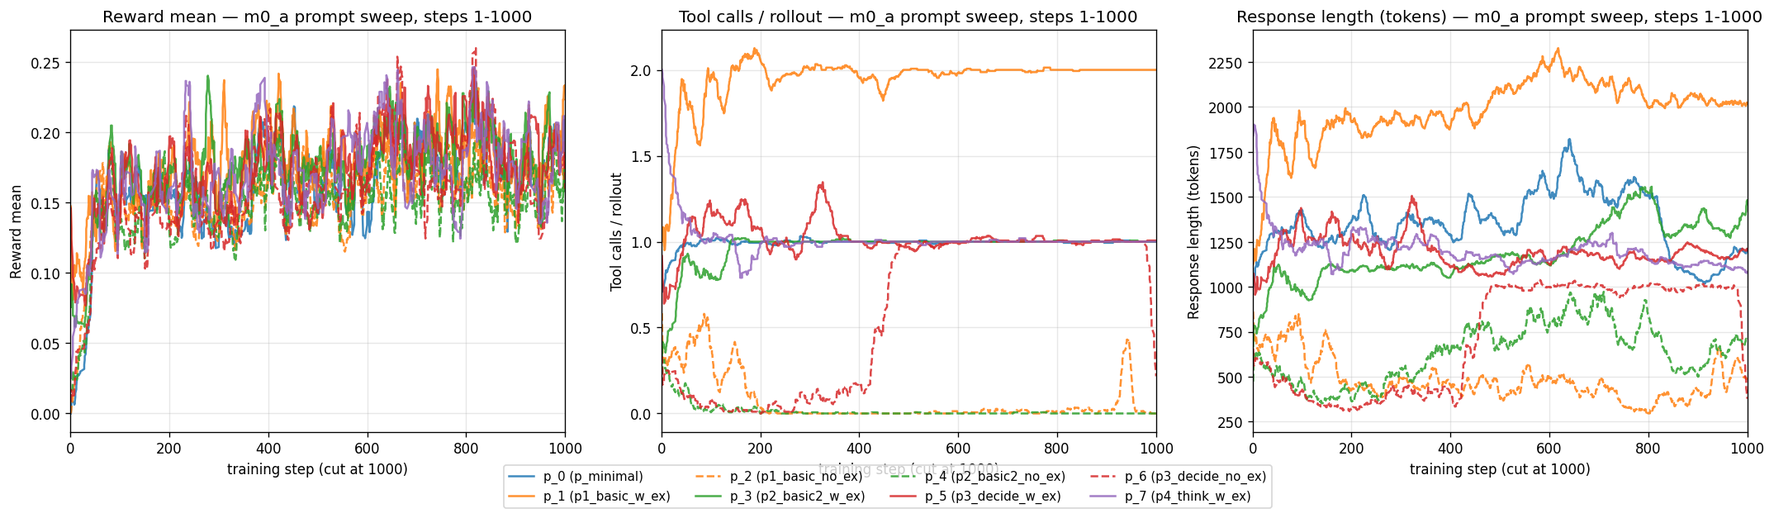
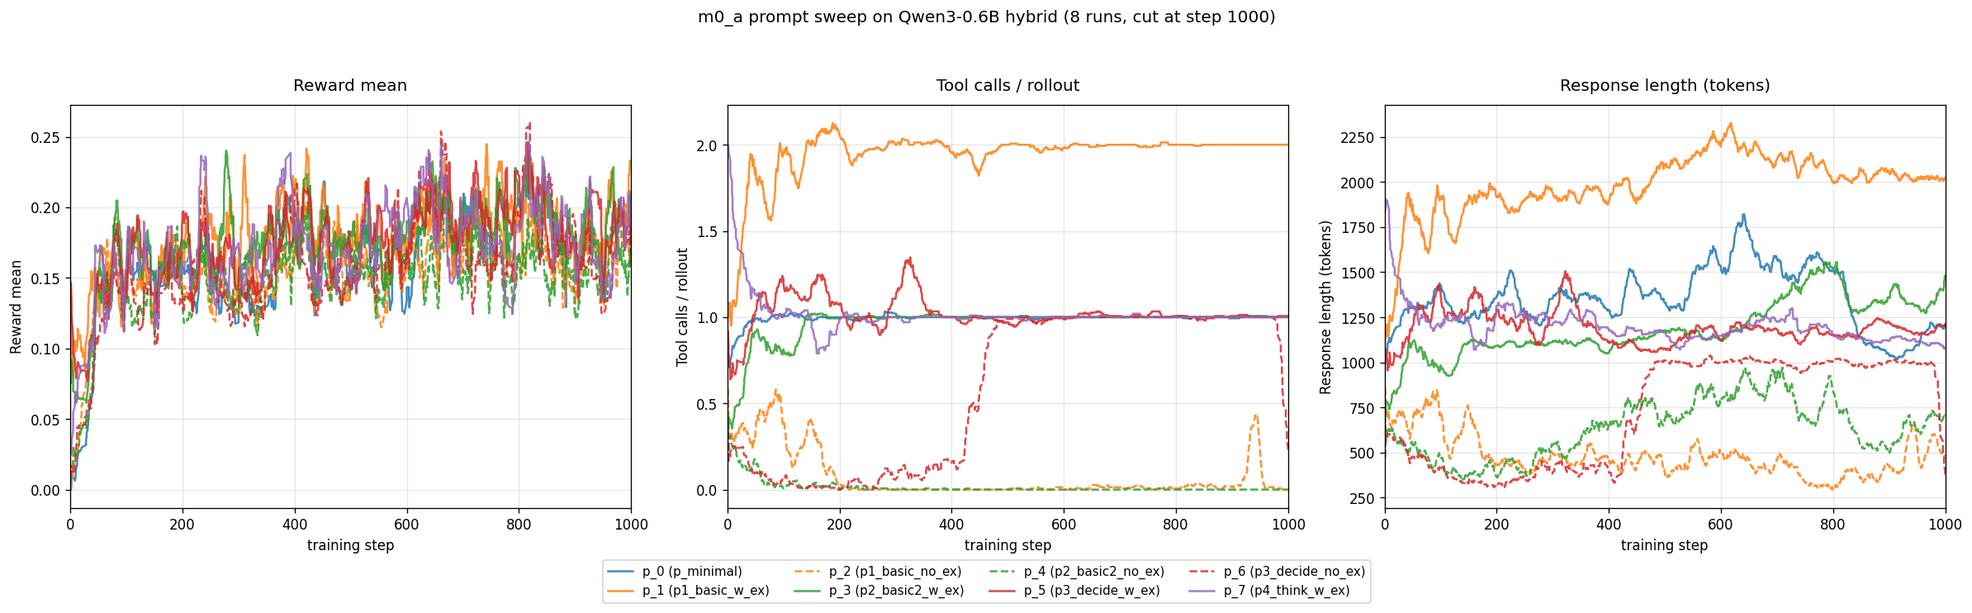
docs(m6): finish STORYLINE TODOs + drop user-voice + add 3 new graphs
User left 8 TODO markers in STORYLINE.md during review; all addressed.
Converted "the user said / asked / flagged" phrasings to project-voice
("we found / observed") since the project narrative is collective work.

TODOs addressed:
 1. line 125 (Search-R1 + ReSearch ablation context): §2.5 now opens with
    Search-R1 (NQ+HotpotQA training, EM-only reward, loss-masking is the
    one published ablation, ~25% gain) and ReSearch (MuSiQue-only training,
    F1+0.1 floor reward, no published reward-shape ablation).
 2. line 129 (Tier-2 papers + links + briefs): IGPO + TIPS + IG-Search +
    Search-P1 now each get a one-line description with arxiv links and a
    one-line contribution summary.
 3. line 138 (graph for F1+0.1 floor mechanism): NEW
    storyline_assets/floor_mechanism.png. Two panels: reward shape (F1 vs
    F1+0.1) and group-advantage distribution under each reward. Simulation
    of G=5 groups with empirical F1 distribution confirms 68.3% of groups
    collapse to std=0 under the floor vs 59.5% under F1-only (9 pp gap in
    gradient-throughput).
 4. line 152 (R1-Searcher + DGPO cites): added arXiv links + paper-note
    paths; flagged DGPO as not-yet-ingested into docs/papers/ (open
    follow-up before paper draft).
 5. line 177 (m0_a plot heading overlap): regenerated
    storyline_assets/m0_a_step1000_comparison.png at 20x5.5 with suptitle
    + shorter panel titles + padded layout. Same for the m0_b tag
    comparison plot.
[…]

diff --git a/docs/milestone_6/STORYLINE.md b/docs/milestone_6/STORYLINE.md
@@ -14,7 +14,7 @@ updated: 2026-05-17
 
 ## 0. The narrative arc in one paragraph (revised 2026-05-17)
 
-We started in April 2026 on a Qwen3-0.6B hybrid + verl + ALICE stack, replicating the ReSearch-paper recipe knob-for-knob. The base model could not bootstrap tool-use from cold start; the hybrid model could but the F1 + 0.1-partial-credit floor in the reward made tool-using and no-tool policies look nearly identical to the optimiser, so prompt design (not reward design) became the dominant lever; we ablated the prompt nine ways and saw three behavioural regimes (heavy-tool 2-call, standard 1-tool, total collapse) all clustered in a 0.16-0.22 reward band; the tag-token choice (`<search>` vs `<tool_call>`) made essentially no difference at equal step count; held-out eval on 7 benchmarks lifted EM 0.102 → 0.155 (+52 % rel) but the lift was concentrated on single-hop because 0.6B is multi-hop-capacity-bound. We then pivoted to NeMo-RL (verl does not support Qwen3.5) and Qwen3.5-0.8B (Qwen3.5-2B at the paper recipe projects to 55-85 days / run on 1× A100, infeasible at our budget). **M5.1 H200 a4 landed at step_180 on 2026-05-17 ~08:18 UTC** (HOLD, not crash; deliberate stop at 58 % of one MuSiQue epoch) with 18 cadences traced step-by-step ([`RESULTS_M5_1_H200.md` §8](../report/RESULTS_M5_1_H200.md#8-live-trajectory)); reward window-mean climbed 0.028 → **0.280 (cadence 11 peak)** in the **shrink-and-improve regime** (length compressed 3× while reward grew, inverting the long-CoT regime of math reasoning RL); the run then exhibited two **lean-drift-lean cycles** (over-search peaks at cadences 14 and 18; GRPO self-stabilised both times, second cycle damped). The plateau at ~0.22-0.28 is structural: F1-only reward gives identical scalar credit to chain-correct and chain-broken-but-token-aligned-by-luck rollouts, and the **empirical silent-flip rate sits in an 18-58 % band across cadences 5-18 with no decline as training progresses**. Two concrete reward-1.0-via-broken-chain traces (Fox Island, World Cup) are now documented; ~11 % of all rollouts in cadence 12 onward are planned + reward-1.0 + chain-broken (Goodhart at scale). The picked-pair contribution turns this into a publishable result by running three reward variants (F1+0.1 / F1-only / EM-only) and evaluating every 10-step checkpoint of each run on all 7 benchmarks: ~15-20 checkpoints × 3 rewards × 7 benchmarks × 1-2 seeds = 315-840 eval data points. The framing is *efficient tool use from a hybrid model under realistic resource constraints*, not long-CoT reasoning, not a new algorithm.
+We started in April 2026 on a Qwen3-0.6B hybrid + verl + ALICE stack, replicating the ReSearch-paper recipe knob-for-knob. The base model could not bootstrap tool-use from cold start; the hybrid model could but the F1 + 0.1-partial-credit floor in the reward made tool-using and no-tool policies look nearly identical to the optimiser, so prompt design (not reward design) became the dominant lever; we ablated the prompt nine ways and saw three behavioural regimes (heavy-tool 2-call, standard 1-tool, total collapse) all clustered in a 0.16-0.22 reward band; the tag-token choice (`<search>` vs `<tool_call>`) made essentially no difference at equal step count; held-out eval on 7 benchmarks lifted EM 0.102 → 0.155 (+52 % rel) but the lift was concentrated on single-hop because 0.6B is multi-hop-capacity-bound. We then pivoted to NeMo-RL (verl does not support Qwen3.5) and Qwen3.5-0.8B (Qwen3.5-2B at the paper recipe projects to 55-85 days / run on 1× A100, infeasible at our budget). M4 produced the untrained Qwen3.5-0.8B floor (hybrid 0.060 EM avg full Plan A, uniformly below Qwen3-0.6B by mean Δ −0.042; the cross-family degradation has no mechanism attached yet) and locked the prompt-mode asymmetrically (hybrid `qwen35_minimal`, base `qwen35_minimal_no_system`) after smoke iteration showed the auto-injected `# Tools` block crowded out the answer on the base variant. **M5.1 H200 a4 landed at step_180 on 2026-05-17 ~08:18 UTC** (HOLD, not crash; deliberate stop at 58 % of one MuSiQue epoch) with 18 cadences traced step-by-step ([`RESULTS_M5_1_H200.md` §8](../report/RESULTS_M5_1_H200.md#8-live-trajectory)); reward window-mean climbed 0.028 → **0.280 (cadence 11 peak)** in the **shrink-and-improve regime** (length compressed 3× while reward grew, inverting the long-CoT regime of math reasoning RL); the run then exhibited two **lean-drift-lean cycles** (over-search peaks at cadences 14 and 18; GRPO self-stabilised both times, second cycle damped). The plateau at ~0.22-0.28 is structural: F1-only reward gives identical scalar credit to chain-correct and chain-broken-but-token-aligned-by-luck rollouts, and the **empirical silent-flip rate sits in an 18-58 % band across cadences 5-18 with no decline as training progresses**. Two concrete reward-1.0-via-broken-chain traces (Fox Island, World Cup) are now documented; ~11 % of all rollouts in cadence 12 onward are planned + reward-1.0 + chain-broken (Goodhart at scale). The picked-pair contribution turns this into a publishable result by running three reward variants (F1+0.1 / F1-only / EM-only) and evaluating every 10-step checkpoint of each run on all 7 benchmarks: ~15-20 checkpoints × 3 rewards × 7 benchmarks × 1-2 seeds = 315-840 eval data points. The framing is *efficient tool use from a hybrid model under realistic resource constraints*, not long-CoT reasoning, not a new algorithm.
 
 ## 1. Phase 0: prompt exploration on Qwen3-0.6B (M0_a, "run_1_4b")
 
@@ -54,9 +54,9 @@ Data source: [`docs/report/archive/m0_a/csv/*.csv`](../report/archive/m0_a/csv/)
 - **Removing the example collapses tool-use unless the rules section carries the load**. Pairs (`p_1`/`p_2`, `p_3`/`p_4`, `p_5`/`p_6`) hold rules fixed and toggle the example. Pairs 1-2 and 3-4 collapse on `_no_ex`; pair 5-6 (decision-rules: "after each search, decide whether another is needed") survives. This is the cleanest finding in Phase-1.
 - **Single seed everywhere**. The 3-6 pp tool/no-tool gap and the +0.025 reward improvement on `p_6` over `p_1` (read in the cross-prompt table) are both single-seed observations.
 
-### 1.4. The five pre-tag setup runs (the user asked: are they important?)
+### 1.4. The five pre-tag setup runs (not data points)
 
-**Not for the storyline.** Five runs predate `run_1_4b` and have no full prompts captured in W&B notes ([`RESULTS_m0_a.md` §9](../report/RESULTS_m0_a.md#L403)). Only `setup_run0_old_prompt` (464 steps) is mechanistically interesting: tool-use collapsed to 0, but reward still climbed 0.004 → 0.151 *via the partial-credit floor*. This is the first observation of the floor mechanism the rest of the project is built on; cited once, not analysed further.
+The five runs predating `run_1_4b` are bring-up only and excluded from the standardised view: no full prompts captured in W&B notes ([`RESULTS_m0_a.md` §9](../report/RESULTS_m0_a.md#L403)), all under 1000 steps. Only `setup_run0_old_prompt` (464 steps) is mechanistically interesting: tool-use collapsed to 0, but reward still climbed 0.004 → 0.151 *via the partial-credit floor*. This is the first observation of the floor mechanism the rest of the project is built on; cited once, not analysed further.
 
 ## 2. The F1 + 0.1 floor masks the tool-use signal
 
@@ -116,16 +116,37 @@ Group mean = 0.032. Group std = 0.029. Advantages: rollout 1 = -1.10σ, rollout 
 
 [`RESULTS_m0_a.md` §7](../report/RESULTS_m0_a.md#L367) back-calculates that with an observed end-of-run reward of 0.16-0.22 against a 0.10 floor, only **6-12 % of rollouts get a non-zero F1 hit on top of the floor**. The remaining 88-94 % of rollouts are at the 0.10 floor regardless of what they did with the tool. The floor masks the tool-use signal across roughly 9 of every 10 rollouts at this model size and dataset.
 
+To visualise the mechanism, simulating G=5 GRPO groups with the empirical F1 distribution (~10 % of rollouts at F1 ∈ (0, 0.4], rest at F1=0) reproduces the masking:
+
+![F1+0.1 floor mechanism](storyline_assets/floor_mechanism.png)
+
+Under the F1+0.1 floor, **68.3 % of groups have all rollouts at exactly 0.10** (group std = 0, GRPO advantage = 0, no gradient). Under F1-only, the collapsed-group fraction drops to 59.5 %, and the non-collapsed groups carry a wider advantage distribution. The 9-pp gap in collapsed-group fraction is roughly the size of the gradient throughput improvement that motivated dropping the floor in M5.1.
+
 ### 2.4. What this means for the M5.1 / picked-pair design
 
 M5.1 was set up with **F1-only** (no floor), explicitly because Phase-1 Finding 1 named this mechanism. The picked-pair experiment C re-tests the floor by running all three variants (F1+0.1, F1-only, EM-only) on the M5.1 recipe to produce the first ablation-grade evidence at 0.8B.
 
 ### 2.5. Where this sits in the 2026 literature
 
-- **ReSearch ([arXiv:2503.19470](https://arxiv.org/abs/2503.19470))** uses this reward formula but does not ablate the floor. Their [paper note §"Takeaways"](../papers/2503.19470_research.md#L77) flags the floor as "the load-bearing detail presented in the paper without comment".
-- **arXiv:2602.19526 "How to Train Your Deep Research Agent?" (Feb 2026)** ablates EM vs F1 vs F1+action-penalty in Search-R1 at 3B+ and finds F1+action-penalty wins. They do **not** ablate the partial-credit floor specifically. Our experiment is the small-model / single-GPU / no-format-reward complementary point ([`LITERATURE_GAP_AUDIT_2026-05-16.md` Tier 1 #1](LITERATURE_GAP_AUDIT_2026-05-16.md#1-how-to-train-your-deep-research-agent--arxiv260219526-feb-2026)).
-- **JustRL ([arXiv:2512.16649](https://arxiv.org/abs/2512.16649), ICLR 2026 blogpost)** is the "tricks may hurt" finding; minimal recipe beats layered. F1-only sits in their philosophical lane.
-- **IGPO / TIPS / IG-Search / Search-P1** define the 2026 dense-credit-shaping trend; we argue F1-only is *deliberate minimalism* against this trend, motivated by the floor mechanism.
+The two papers our pipeline directly descends from take different positions on the floor:
+
+- **Search-R1 ([arXiv:2503.09516](https://arxiv.org/abs/2503.09516), NeurIPS 2025)**: trained on **merged NQ + HotpotQA**, evaluated on 7 datasets (NQ / TriviaQA / PopQA / HotpotQA / 2WikiMultiHopQA / MuSiQue / Bamboogle). Reward: **EM-only on `<answer>X</answer>`** (paper-faithful `qa_em.py`); a 6-tier shaped variant `qa_em_format.py` also ships in their repo but is not the published recipe. **The one reward-related ablation they publish is loss-masking of retrieved tokens** ([§5.4 of the paper](https://arxiv.org/abs/2503.09516) reports a ~25 % avg relative gain from masking). They do not ablate the EM / F1 / partial-credit-floor axis. Paper note: [`../papers/2503.09516_search-r1.md`](../papers/2503.09516_search-r1.md).
+
+- **ReSearch ([arXiv:2503.19470](https://arxiv.org/abs/2503.19470), NeurIPS 2025)**: trained on **MuSiQue only** (single-dataset), evaluated on NQ / HotpotQA / 2Wiki / MuSiQue (a subset of Search-R1's 7). Reward: **F1 on `<answer>X</answer>` content + 0.1 partial-credit floor when format-OK but F1=0**. The paper does **not ablate the floor**; the paper note ([`../papers/2503.19470_research.md` §"Takeaways"](../papers/2503.19470_research.md#L77)) flags it as "the load-bearing detail presented in the paper without comment" and "the most ablation-worthy line in the loss".
+
+Our project sits at the intersection: Search-R1's eval protocol + ReSearch's training recipe + the unaddressed floor ablation as the picked-pair experiment.
+
+Two newer 2026 papers shape positioning:
+
+- **"How to Train Your Deep Research Agent?" ([arXiv:2602.19526](https://arxiv.org/html/2602.19526v1), Feb 2026)**: ablates **EM vs F1 vs F1+action-penalty** in Search-R1 at 3B+ and finds F1+action-penalty wins. They do **not** ablate the partial-credit floor specifically. Our experiment is the small-model / single-GPU / no-format-reward complementary point ([`LITERATURE_GAP_AUDIT_2026-05-16.md` Tier 1 #1](LITERATURE_GAP_AUDIT_2026-05-16.md#1-how-to-train-your-deep-research-agent--arxiv260219526-feb-2026)).
+- **JustRL ([arXiv:2512.16649](https://arxiv.org/abs/2512.16649), ICLR 2026 blogpost)**: the "tricks may hurt" finding; minimal recipe beats layered on math reasoning at 1.5B. F1-only sits in their philosophical lane.
+
+A 2026 *dense-credit-assignment cluster* explicitly argues against outcome-only F1; our F1-only choice is the minority position and must be defended as **deliberate minimalism** motivated by the floor mechanism ([`LANDSCAPE_TABLE_2026-05.md` §2b](LANDSCAPE_TABLE_2026-05.md#2b-dense-credit-assignment-cluster-positioning-shift-f1-only-must-be-defended-as-minimalism)):
+
+- **IGPO ([arXiv:2510.14967](https://arxiv.org/abs/2510.14967), ICLR 2026 Poster)**: per-turn dense reward = marginal increase in policy's probability of producing the correct answer. Beats outcome-only GRPO.
+- **TIPS ([arXiv:2603.22293](https://arxiv.org/html/2603.22293v1), Mar 2026)**: per-turn dense reward = teacher-LM log-likelihood gain. Reports **+11.8 % EM / +13.6 % F1** over PPO on Qwen-2.5-7B across 7 QA benchmarks.
+- **IG-Search ([arXiv:2604.15148](https://arxiv.org/abs/2604.15148), Apr 2026)**: per-search-step information gain measured by random-doc counterfactual; per-token advantage modulation in GRPO. Evaluates on **HotpotQA / 2Wiki / MuSiQue / Bamboogle (our exact eval suite)**.
+- **Search-P1 ([arXiv:2602.22576](https://arxiv.org/html/2602.22576v1), Feb 2026, Tencent)**: order-agnostic step-coverage reward against reference planners; **+7.7 avg accuracy over Search-R1** on Qwen-2.5-3B / 7B.
 
 ## 3. Base-model attempts fail (M0_b)
 
@@ -133,22 +154,26 @@ M5.1 was set up with **F1-only** (no floor), explicitly because Phase-1 Finding 
 
 Five Qwen3-0.6B-Base training attempts in the v1 block, all at the `<tool_call>` JSON tag format. **All five stayed at `tool_call_counts/mean = 0` throughout training** ([`RESULTS_m0_b.md` §1](../report/RESULTS_m0_b.md#L19); CSVs at [`m0_b/csv/base_state_machine_*.csv`](../report/archive/m0_b/csv/), [`base_with_example_*.csv`](../report/archive/m0_b/csv/)).
 
-Step-1000 snapshot (qualifying runs only):
+Step-1000 snapshot (qualifying runs only; full traces in plot below):
 
 | Run | Steps | Reward | Tool calls | Resp. length | Note |
 |---|---:|---:|---:|---:|---|
 | `base_state_machine_a` | 2301 | -0.00002 | **0.00** | 91 | 0 tool calls across all 2301 steps |
 | `base_state_machine_b` | 2301 | -0.00002 | **0.00** | 116 | 0 tool calls across all 2301 steps |
-| `base_breakthrough` | 2301 | 0.7 | 0.00 | n/a | **Excluded**: reward-function code-change artifact, not learning (per CLAUDE.md gotcha #2) |
+| `base_breakthrough` | 2301 | 0.7 | 0.00 | n/a | **Excluded**: reward-function code-change artifact, not learning (per [CLAUDE.md gotcha](../../claude/CLAUDE.md)) |
 | `base_with_example_a` | 115 | n/a | 0 | crashed | response_length collapsed → 1 token, then crashed |
 | `base_with_example_b` | 204 | n/a | 0 | crashed | same failure mode |
 
+![Base vs hybrid: base fails to bootstrap tool use](storyline_assets/m0_b_base_failure.png)
+
+The three middle-panel curves at the bottom (red + brown) are the four base attempts at `tool_call_counts/mean = 0`; the two top curves (orange + blue) are the hybrid runs that bootstrap tool use within ~100 steps. The base curves do not budge over 2300 steps of training.
+
 ### 3.2. Citations
 
-The base-model failure is consistent with two papers:
+The base-model failure is consistent with two papers (both ingested under [`../papers/`](../papers/)):
 
-- **R1-Searcher ([arXiv:2503.05592](https://arxiv.org/abs/2503.05592))** introduces a two-stage curriculum (Stage 1: format-RL; Stage 2: outcome-RL) explicitly because outcome-only RL fails to bootstrap base-model tool-use. Their result is on Qwen2.5-7B-Base; we observe the same failure mode more acutely at Qwen3-0.6B-Base. The takeaway in [`papers/2503.05592_r1-searcher.md` §"Takeaways"](../papers/2503.05592_r1-searcher.md#L75): *"Stage 1 solves the cold-start problem we hit in Phase-1 base-model attempts"*.
-- **DGPO / Compact LMs Search Like Agents ([arXiv:2508.20324](https://arxiv.org/abs/2508.20324) v4, Apr 2026)** argues **0.5-1B agentic RAG fails under pure RL** and proposes distillation-guided GRPO. Our 5/5 failures at 0.6B-Base are the failure mode they characterise.
+- **R1-Searcher** ([arXiv:2503.05592](https://arxiv.org/abs/2503.05592), Song et al., 2025; HTML: [arxiv.org/html/2503.05592](https://arxiv.org/html/2503.05592v3); paper note: [`../papers/2503.05592_r1-searcher.md`](../papers/2503.05592_r1-searcher.md)). Introduces a two-stage curriculum (Stage 1: format-RL on retrieval call structure; Stage 2: outcome-RL on answer correctness) explicitly because outcome-only RL fails to bootstrap base-model tool-use. Result is on Qwen2.5-7B-Base; we observe the same failure mode more acutely at Qwen3-0.6B-Base (the smaller the base, the more starved the format prior). Paper-note takeaway: *"Stage 1 solves the cold-start problem we hit in Phase-1 base-model attempts"*.
+- **DGPO / Compact LMs Search Like Agents** ([arXiv:2508.20324](https://arxiv.org/abs/2508.20324) v4, Liu et al., 2025 → Apr 2026; HTML: [arxiv.org/html/2508.20324](https://arxiv.org/html/2508.20324v4)). Argues **0.5-1B agentic RAG fails under pure RL** and proposes distillation-guided GRPO. Our 5/5 failures at 0.6B-Base are the failure mode they characterise. **Not yet ingested into [`../papers/`](../papers/)** as of 2026-05-17; cited only from the audit summary at [`LITERATURE_GAP_AUDIT_2026-05-16.md` Tier 1 #4](LITERATURE_GAP_AUDIT_2026-05-16.md#4-dgpo--can-compact-lms-search-like-agents--arxiv250820324-aug-2025-v4--apr-2026). Open follow-up: read DGPO end-to-end + write a paper note before the picked-pair paper is drafted.
 
 ### 3.3. Why we stay on hybrid
 
@@ -179,35 +204,41 @@ The v0 block used the paper's `<search>` / `<result>` tags (ReSearch-style, inve
 - The v1 `r2_concise` lower number (0.151) is **prompt-design variance, not tag-format variance**; the prompt is shorter and lacks the explicit JSON-arg example that `r1_query_object` carries.
 - The v0 `p1_basic_w_ex` heavy-tool variant (0.192) sits between the two; the heavy-tool regime is a prompt artifact (Hamlet 2-search example), not a tag-format artifact.
 
-The conclusion is **softer than the original verbal phrasing ("tokens don't matter") but holds**: tag-token format costs ≤ 2 pp reward at equal step count, which is within prompt-design variance. The choice is dictated by which format keeps the model in-distribution for inference; for Qwen3.5 that is the canonical `<tool_call>` form ([`MILESTONE_4.md` M4.1 lock](../milestone_4/MILESTONE_4.md)).
+The conclusion: **tag-token format costs ≤ 2 pp reward at equal step count**, which is within prompt-design variance. (The looser "tokens don't matter" reading is an overstatement; the precise reading is "tag-token effect is dominated by prompt-design effect at this scale".) The choice is dictated by which format keeps the model in-distribution for inference; for Qwen3.5 that is the canonical `<tool_call>` form ([`MILESTONE_4.md` M4.1 lock](../milestone_4/MILESTONE_4.md)).
 
 ## 5. Held-out 7-benchmark eval of v0 GRPO checkpoints (M3 / M3.1)
 
-### 5.1. M3 (the `p1_basic_w_ex` checkpoint)
+### 5.1. Two v0 GRPO checkpoints evaluated at full Plan A
 
-Two v0 GRPO checkpoints were evaluated on the 7-benchmark Search-R1 suite at full Plan A scale (51,713 items / variant, greedy decode, 1× A100-80GB; pipeline frozen at [`CODE_SETUP_m3.md`](../report/CODE_SETUP_m3.md) §3).
+Both `p1_basic_w_ex` (M3; heavy-tool 2-call) and `p3_decide_no_ex` (M3.1; standard 1-tool, the pareto winner) were evaluated on the 7-benchmark Search-R1 suite at full Plan A scale (51,713 items / variant, greedy decode, 1× A100-80GB; pipeline frozen at [`CODE_SETUP_m3.md`](../report/CODE_SETUP_m3.md) §3). Both rows are in the table; the pareto comparison is the right read.
 
 | Variant | Bamboogle | NQ | TriviaQA | PopQA | HotpotQA | 2Wiki | MuSiQue | Avg EM |
 |---|---:|---:|---:|---:|---:|---:|---:|---:|
 | pre-GRPO Qwen3-0.6B hybrid | 0.056 | 0.113 | 0.178 | 0.133 | 0.083 | **0.141** | 0.010 | 0.102 |
-| v0 `p1_basic_w_ex` GRPO checkpoint (`z7kcxfof`) | **0.088** | **0.191** | **0.302** | **0.227** | **0.116** | 0.138 | **0.023** | **0.155** |
-| Δ EM | +0.032 | +0.078 | +0.124 | +0.094 | +0.033 | −0.003 | +0.013 | **+0.053 (+52 % rel)** |
+| **M3** v0 `p1_basic_w_ex` (`z7kcxfof`, heavy-tool 2-call / 4-turn) | **0.088** | 0.191 | 0.302 | 0.227 | 0.116 | 0.138 | 0.023 | 0.155 |
+| **M3.1** v0 `p3_decide_no_ex` (`el6s2d2h`, 1-tool decision-rules, **pareto winner**) | 0.056 | **0.197** | **0.339** | **0.285** | **0.144** | 0.134 | **0.028** | **0.169** |
+| Δ M3.1 vs M3 | −0.032 | +0.006 | +0.037 | **+0.058** | +0.028 | −0.004 | +0.005 | **+0.014 (+9 % rel)** |
+| Δ M3.1 vs pre-GRPO | n/a | +0.084 | +0.161 | +0.152 | +0.061 | −0.007 | +0.018 | **+0.067 (+66 % rel)** |
 
-Source: [`RESULTS_m3.md` §6 + §9](../report/RESULTS_m3.md#L233).
+Sources: M3 numbers at [`RESULTS_m3.md` §9](../report/RESULTS_m3.md#L233); M3.1 numbers at [`RESULTS_m3.md` §14.5](../report/RESULTS_m3.md#L385). Bamboogle (n=125) regression on M3.1 sits inside the n=125 standard-error band (~±0.02 at this rate; [`../archive/BAMBOOGLE_REGRESSION_INVESTIGATION.md`](../archive/BAMBOOGLE_REGRESSION_INVESTIGATION.md)).
 
 ### 5.2. The pareto effect: parametric memory drives the single-hop lifts
 
-Lifts are concentrated on single-hop QA: NQ +0.078 EM (+69 %), TriviaQA +0.124 EM (+70 %), PopQA +0.094 EM (+71 %). Multi-hop datasets dampen: HotpotQA +0.033 EM (+40 %), 2WikiMultiHopQA −0.003 EM (essentially tied), MuSiQue +0.013 EM (doubles in relative but small absolute).
+Lifts are concentrated on single-hop QA: M3.1 NQ +0.084 EM (+74 %), TriviaQA +0.161 (+90 %), PopQA +0.152 (+114 %). Multi-hop datasets dampen: HotpotQA +0.061 (+74 %), 2WikiMultiHopQA −0.007 (essentially tied), MuSiQue +0.018 (doubles relative but ~0 absolute).
 
-The user's intuition that this is a "pareto effect maybe because of parametric memory" is correct in spirit. The mechanism: at 0.6B parameters, the model carries enough parametric memory to answer a single fact lookup *once retrieval has surfaced the right entity* (NQ, PopQA, TriviaQA shapes); it lacks the capacity to compose two retrieved facts into a multi-hop answer (HotpotQA, 2Wiki, MuSiQue shapes). GRPO + retrieval reinforces the *retrieval + lookup* sub-skill which transfers cleanly to single-hop; the *compose-two-facts* sub-skill is upstream-bound by model capacity, not training. The pareto-style "lift everywhere except multi-hop" shape is the signature of this capacity bound, which [`RESULTS_m3.md` §10.2](../report/RESULTS_m3.md#L250) names as "multi-hop is capacity-bound, not training-bound at 0.6B".
+The pareto-style "lift everywhere except multi-hop" shape is consistent with **parametric-memory + retrieval-lookup** being trainable at 0.6B while **compose-two-retrieved-facts** is not. At 0.6B parameters the model carries enough parametric memory to answer a single fact lookup *once retrieval has surfaced the right entity* (NQ, PopQA, TriviaQA shapes); it lacks the capacity to compose two retrieved facts into a multi-hop answer (HotpotQA, 2Wiki, MuSiQue shapes). GRPO + retrieval reinforces the retrieval-lookup sub-skill cleanly; the compose-two-facts sub-skill is upstream-bound by model capacity, not training. [`RESULTS_m3.md` §10.2](../report/RESULTS_m3.md#L250) names this as "multi-hop is capacity-bound, not training-bound at 0.6B".
 
-### 5.3. M3.1 (the `p3_decide_no_ex` checkpoint)
+### 5.3. Why M3.1 (no-example) wins over M3 (with-example)
 
-Run id `el6s2d2h`; the prompt that survived example removal. Avg EM 0.169 vs M3 baseline 0.155 (+0.014 abs, +9 % rel held-out EM). ACC and F1 widen the gap to +12 % and +14 % rel ([`RESULTS_m3.md` §14.4-14.5](../report/RESULTS_m3.md#L381)). The no-example + decision-rules combination genuinely produces higher-quality answers, just not always within EM strict-match.
+M3.1 trains on the same MuSiQue / paper recipe / Qwen3-0.6B hybrid as M3; the only change is the prompt (decision-rules scaffolding without a few-shot example, vs the Hamlet 2-search example in M3). End-of-training rollout reward: 0.215 (M3.1) vs 0.190 (M3); a +13 % rel reward gap. Translated to held-out: M3.1 simple-mean EM 0.169 vs M3 0.155 (+9 % rel), with ACC widening to +12 % rel and F1 to +14 % rel ([`RESULTS_m3.md` §14.4](../report/RESULTS_m3.md#L385)). The widening from EM to F1 indicates the no-example variant genuinely produces higher-quality answers, just not always within EM's strict-match window.
 
 ### 5.4. Caveat: reward keeps climbing even without tool-use
 
-The user flagged: "we saw that even without tooluse the reward was climbing because of the reward format floor at this level". This is correct and is the cross-reference to §2: `setup_run0_old_prompt` (464 steps; tool-use collapsed to 0) had reward climb 0.004 → 0.151 entirely from the floor mechanism. Same shape appears in `p1_basic_no_ex` (0.169 reward at step 1000 with tool calls at 0.09; the model abandoned the tool but reward still grew because format-OK rollouts pull 0.10 / rollout).
+A consequence of §2: reward can climb to ~0.15 *purely from the 0.10 floor* if the model abandons the tool entirely. Two pieces of evidence in the project:
+- `setup_run0_old_prompt` (464 steps, pre-tag): tool-use collapsed to 0, but reward still climbed 0.004 → 0.151 (entirely from format-OK rollouts hitting the floor).
+- `p1_basic_no_ex` at step 1000: reward 0.169 with tool_calls = 0.09 (the model abandoned the tool but reward still grew because format-OK rollouts pull 0.10 each).
+
+This is the cross-reference back to §2: at 0.6B on MuSiQue, the floor mechanism produces reward growth that looks like learning but is not learning anything about the tool.
 
 ## 6. Migration to NeMo-RL + Qwen3.5
 
@@ -220,9 +251,9 @@ Two compounding constraints surfaced:
 
 NeMo-RL is the only framework with first-class Qwen3.5 support (DTensor V2 + dynamic batching workaround for the GDN kernel issue). M2 ported the Search-R1 GRPO loop to NeMo-RL with 15 reward-parity tests passing ([`milestone_2/MILESTONE_2.md`](../milestone_2/MILESTONE_2.md), [`training/SMOKE_RESULTS_2026-05-06.md`](../training/SMOKE_RESULTS_2026-05-06.md)).
 
-### 6.2. The 3B comparison baseline (clarification: this is Search-R1 3B, not R1-Searcher)
+### 6.2. The 3B comparison baseline: Search-R1 3B (not R1-Searcher)
 
-The user's verbal description was "we tried eval of R1-Searcher 3B as a baseline (branch `plan-a-eval`)". The actual content on [`origin/plan-a-eval`](https://github.com/GaurisankarJ/reason_over_search/tree/plan-a-eval) is the **Search-R1** 3B baseline (`PeterJinGo/SearchR1-nq_hotpotqa_train-qwen2.5-3b-em-grpo` and `-it-em-grpo`), not R1-Searcher. R1-Searcher is a different paper ([arXiv:2503.05592](https://arxiv.org/abs/2503.05592)) we cite only for the base-model-failure motivation (§3.2). I am preserving "Search-R1 3B" in this document; flagging the verbal mix-up so the supervisor brief and any future paper draft are clean.
+Naming clarification: the 3B baseline evaluated on [`origin/plan-a-eval`](https://github.com/GaurisankarJ/reason_over_search/tree/plan-a-eval) is the **Search-R1 3B** baseline (`PeterJinGo/SearchR1-nq_hotpotqa_train-qwen2.5-3b-em-grpo` and `-it-em-grpo`), not R1-Searcher. R1-Searcher ([arXiv:2503.05592](https://arxiv.org/abs/2503.05592)) is cited only for the base-model-failure motivation (§3.2). The two papers share a "-R1" suffix and similar task framing but are distinct works; the 3B comparator throughout this document is Search-R1.
 
 Search-R1 3B Plan-A numbers (1 seed × 7 datasets × 3 variants, 8× RTX 4090, 1 h 52 min wall, from [`origin/plan-a-eval`'s `docs/eval/plan_a_8gpu/RESULTS.md`](https://github.com/GaurisankarJ/reason_over_search/blob/plan-a-eval/docs/eval/plan_a_8gpu/RESULTS.md)):
 
@@ -244,9 +275,37 @@ Our 0.8B M5.1-final + 7-benchmark eval lands somewhere on this map. If it beats 
 
 Per [`training/PAPER_VS_OURS_TRAINING.md` §7](../training/PAPER_VS_OURS_TRAINING.md#L131): running the paper's 3-epoch schedule with `num_prompts_per_step=512` and `gbs=256` on 1× A100 would take **55-85 days / run** (~\$1,600-2,400) for Qwen3.5-2B at the smoke-anchored ~57 s / step. Even our reduced 0.6-epoch budget (1005 steps × 102 prompts/step) projects to **11-17 d / run, ~\$300-490 / run** on 1× A100.
 
-The user's verbal phrasing was "85 days on an A100 after running a few steps in smoke tests". This is **the upper bound of the 55-85 day range** for the paper-faithful 3-epoch schedule, not our affordable 0.6-epoch shape. Either way, Qwen3.5-2B is **infeasible** for the picked-pair ablation (3 reward variants × ≥10 d = 30 d wall-clock, ~\$900-1200).
+The "85 days on A100" cost figure is **the upper bound of the 55-85 day range** for the paper-faithful 3-epoch schedule, not our affordable 0.6-epoch shape (which projects to 11-17 d / run, ~\$300-490). Either schedule, Qwen3.5-2B is **infeasible** for the picked-pair ablation (3 reward variants × ≥10 d = 30 d wall-clock, ~\$900-1200).
 
 Drop to Qwen3.5-0.8B: ~3× smaller per-step cost, fits the picked-pair budget envelope.
+
+### 6.5. M4: untrained Qwen3.5-0.8B baseline + prompt-mode lock
+
+Before training Qwen3.5-0.8B we needed (a) an untrained floor on the 7-benchmark suite, and (b) a settled prompt-mode for the eval and the training rollout. M4 produced both.
+
+**M4 close-out (2026-05-10)**: full Plan A eval (51,713 items / variant, greedy decode) on both Qwen3.5-0.8B variants. Cross-family comparison vs the M3 Qwen3-0.6B hybrid floor:
+
+| Dataset | M3 Qwen3-0.6B hybrid | M4 Qwen3.5-0.8B hybrid | M4 Qwen3.5-0.8B base | Δ M4-hybrid vs M3 |
+|---|---:|---:|---:|---:|
+| bamboogle | 0.056 | 0.048 | 0.000 | −0.008 |
+| nq | 0.113 | 0.063 | 0.004 | −0.050 |
+| triviaqa | 0.178 | 0.124 | 0.012 | −0.054 |
+| popqa | 0.133 | 0.075 | 0.008 | −0.058 |
+| hotpotqa | 0.083 | 0.064 | 0.011 | −0.019 |
+| 2wikimultihopqa | 0.141 | 0.040 | 0.032 | −0.101 |
+| musique | 0.010 | 0.008 | 0.000 | −0.002 |
+| **mean** | **0.102** | **0.060** | **0.010** | **−0.042 (−41 % rel)** |
+
+Source: [`RESULTS_m4.md` §5](../report/RESULTS_m4.md#L67). **Qwen3.5-0.8B hybrid is uniformly below Qwen3-0.6B hybrid on this protocol** (no dataset crosses); the cross-family Δ averages −0.042 EM (−41 % relative). Largest gaps on the multi-hop datasets (2Wiki −0.10, popqa −0.06, triviaqa −0.05). Mechanism not attached (could be tokenizer 151K → 248K, chat template change, training-distribution drift, prompt-mode misalignment). Logged in [`DATA_AUDIT_PHASE_1.md` §4a](DATA_AUDIT_PHASE_1.md#4a-qwen35-08b-hybrid--qwen3-06b-hybrid-on-untrained-tool-use-results_m4md-5) as a candidate 1-page negative result if a cheap diagnostic attaches mechanism.
+
+**Prompt-mode ablation (M4.1 → M4.2 → M4.3)**: smoke-iteration on the prompt-mode lock revealed an asymmetry between hybrid and base ([`RESULTS_SMOKE_m4.md` §6-7](../report/RESULTS_SMOKE_m4.md); locked-best per [`RESULTS_m4.md` §3](../report/RESULTS_m4.md)):
+
+| Variant | Locked prompt-mode | Smoke EM (n=100/ds × 7) | Lift over verbose default |
+|---|---|---:|---:|
+| Hybrid (`qwen3.5_0.8b`) | `qwen35_minimal` (M4.2) | 0.057 | **6.6×** over the v3 verbose 0.0086 |
+| Base (`qwen3.5_0.8b_base`) | `qwen35_minimal_no_system` (M4.3) | 0.016 | **5×** over `qwen35_minimal` 0.003 |
+
+Mechanism: the auto-injected `# Tools` + `<IMPORTANT>` block is in-distribution for hybrid's tool-use post-training (drives the search loops); on base it is pure scaffolding noise that crowds out the answer. The asymmetric lock is the M4.2 → M4.3 finding: **hybrid keeps the system block; base drops it entirely**. The hybrid lock (`qwen35_minimal`) is the same prompt-mode M5.1 trains under, so the M4 floor and M5.1 trajectory are directly comparable.
 
 ## 7. M5.1 training: Qwen3.5-0.8B GRPO at the ReSearch-paper recipe (LANDED at step_180)
 
@@ -290,7 +349,7 @@ The run completed 18 cadences of 10 steps each (180 steps total = 58 % of one Mu
 
 Cadences 1-2 (steps 1-24): tool calls compressed 8.96 → ~3.0 (close to MuSiQue's ground-truth ~3-hop chain length); token mean compressed 7038 → ~2700 (2.6×); reward grew 5× from cold start. The regime **inverts the long-CoT regime** of math reasoning RL (where length grows with reward).
 
-This is the user's "efficient tool user from a hybrid model, not a long-reasoning-chain model" framing, **confirmed**. The hybrid model is post-trained with both instruct and reasoning data; under outcome-only F1 reward on a retrieval-augmented task it sheds verbose reasoning (which carries no reward) and tightens to ~3 search calls (which carry reward via retrieved evidence). Structurally distinct from R1-style post-training where reasoning length is rewarded and grows unbounded.
+**This is the "efficient tool use from a hybrid model, not a long-reasoning-chain model" framing, confirmed by the data**. The Qwen3.5 hybrid is post-trained with both instruct and reasoning data; under outcome-only F1 reward on a retrieval-augmented task it sheds verbose reasoning (which carries no reward) and tightens to ~3 search calls (which carry reward via retrieved evidence). Structurally distinct from R1-style post-training where reasoning length is rewarded and grows unbounded.
 
 ### 7.4. NEW finding: lean-drift-lean cycling (GRPO self-stabilisation)
 
@@ -370,11 +429,11 @@ Run paused, not crashed. [`RESULTS_M5_1_H200.md` §9.6](../report/RESULTS_M5_1_H
 **Evidence the ceiling is structural, not under-trained**:
 - Cadences 8-18 (110 steps) sit in the 0.20-0.28 reward band with **no monotone climb**; the run is on lean-drift-lean cycles.
 - Best single cadence (C11) = 0.280 window-mean; still 4-12 pp below the 0.32-0.40 that would mark M5.1 as a paper-faithful "win" (ReSearch reports 0.40-0.47 EM avg).
-- Chain-flip rate stays in 18-58 % band across 130 steps with **no decline as training progresses**.
+- Chain-flip rate stays in 18-58 % band across the 140 steps where the detector was run (cadences 5-18, steps 41-180) with **no decline as training progresses**.
 - Two reward-1.0-via-broken-chain traces (Fox Island, World Cup) at scale (~11 % of all rollouts in C12+).
 
 **Cost/value of finishing the remaining 131 steps to step_311**:
-- ~$60-80 on dedicated H200 ($0.45/step × 131).
+- ~\$60-80 on dedicated H200 (\$0.45/step × 131).
 - Expected delta: < 2 pp reward at the cadence mean; eval on Bamboogle expected within noise of step_180.
 - That money buys ~12 hours of M8.2 training (predicted +0.04-0.08 absolute lift per §9.5).
 - Therefore: hold M5.1 at step_180, redirect to M8.2.
@@ -422,14 +481,14 @@ H1 + H2 + H3 + H4 are four claims that are *each* publishable. The per-checkpoin
 
 - **Upper anchor**: Search-R1 GRPO 3B-instruct at 0.341 EM avg (§6.2).
 - **3B raw anchor**: Qwen2.5-3B-Instruct at 0.199 EM avg.
-- **Untrained 0.8B floor**: Qwen3.5-0.8B hybrid at 0.057 EM avg ([`RESULTS_m4.md` §5](../report/RESULTS_m4.md#L67)).
-- **0.6B trained reference**: Qwen3-0.6B + v0 GRPO + `p1_basic_w_ex` at 0.155 EM avg (§5.1).
+- **Untrained 0.8B floor**: Qwen3.5-0.8B hybrid at **0.060 EM avg full Plan A** ([`RESULTS_m4.md` §5](../report/RESULTS_m4.md#L67)).
+- **0.6B trained references**: Qwen3-0.6B + v0 GRPO + `p1_basic_w_ex` at 0.155 EM avg (M3, §5.1); Qwen3-0.6B + v0 GRPO + `p3_decide_no_ex` at 0.169 EM avg (M3.1, §5.1).
 
 If the M5.1-F1-only trajectory ends at ~0.15-0.20 EM avg, the headline claim is "0.8B trained with F1-only on MuSiQue matches 0.6B trained with paper-faithful reward on MuSiQue, and approaches the 3B raw baseline." If it ends at ~0.25-0.30, it is "0.8B trained on MuSiQue clears 3B raw + approaches 3B GRPO at 1/4 the parameter budget."
 
 ## 9. The thesis-paper story (compact, revised 2026-05-17)
 
-**One sentence**: at sub-1B scale on retrieval-augmented multi-hop QA, the ReSearch partial-credit reward floor masks tool-use signal at training time *and* removing the floor in favour of F1-only creates a different mask (chain-quality blindness) that we measure at 18-58 % silent-flip rate across 130 training steps; the resulting reward plateau is structural at 0.22-0.28 window-mean, the small-model regime exhibits a *shrink-and-improve* training dynamic distinct from the long-CoT regime familiar from math reasoning RL, and GRPO self-stabilises around the F1-optimum operating shape (lean-drift-lean cycling, damped over two cycles in 180 steps).
+**One sentence**: at sub-1B scale on retrieval-augmented multi-hop QA, the ReSearch partial-credit reward floor masks tool-use signal at training time *and* removing the floor in favour of F1-only creates a different mask (chain-quality blindness) that we measure at 18-58 % silent-flip rate across the 140 steps where the chain-flip detector was run (cadences 5-18 of M5.1, steps 41-180); the resulting reward plateau is structural at 0.22-0.28 window-mean, the small-model regime exhibits a *shrink-and-improve* training dynamic distinct from the long-CoT regime familiar from math reasoning RL, and GRPO self-stabilises around the F1-optimum operating shape (lean-drift-lean cycling, damped over two cycles in 180 steps).
 
 **Four contributions** (in priority order, revised 2026-05-17):
 
@@ -440,7 +499,7 @@ If the M5.1-F1-only trajectory ends at ~0.15-0.20 EM avg, the headline claim is 
 
 ## 10. Critical assessment: is this a defensible NeurIPS paper?
 
-The user asked for honesty. Here it is.
+Honest assessment below. The picked-pair paper is being optimised for the thesis first; post-thesis publication targets follow.
 
 ### 10.1. What works (strengthened 2026-05-17 with M5.1-landed evidence)
 
